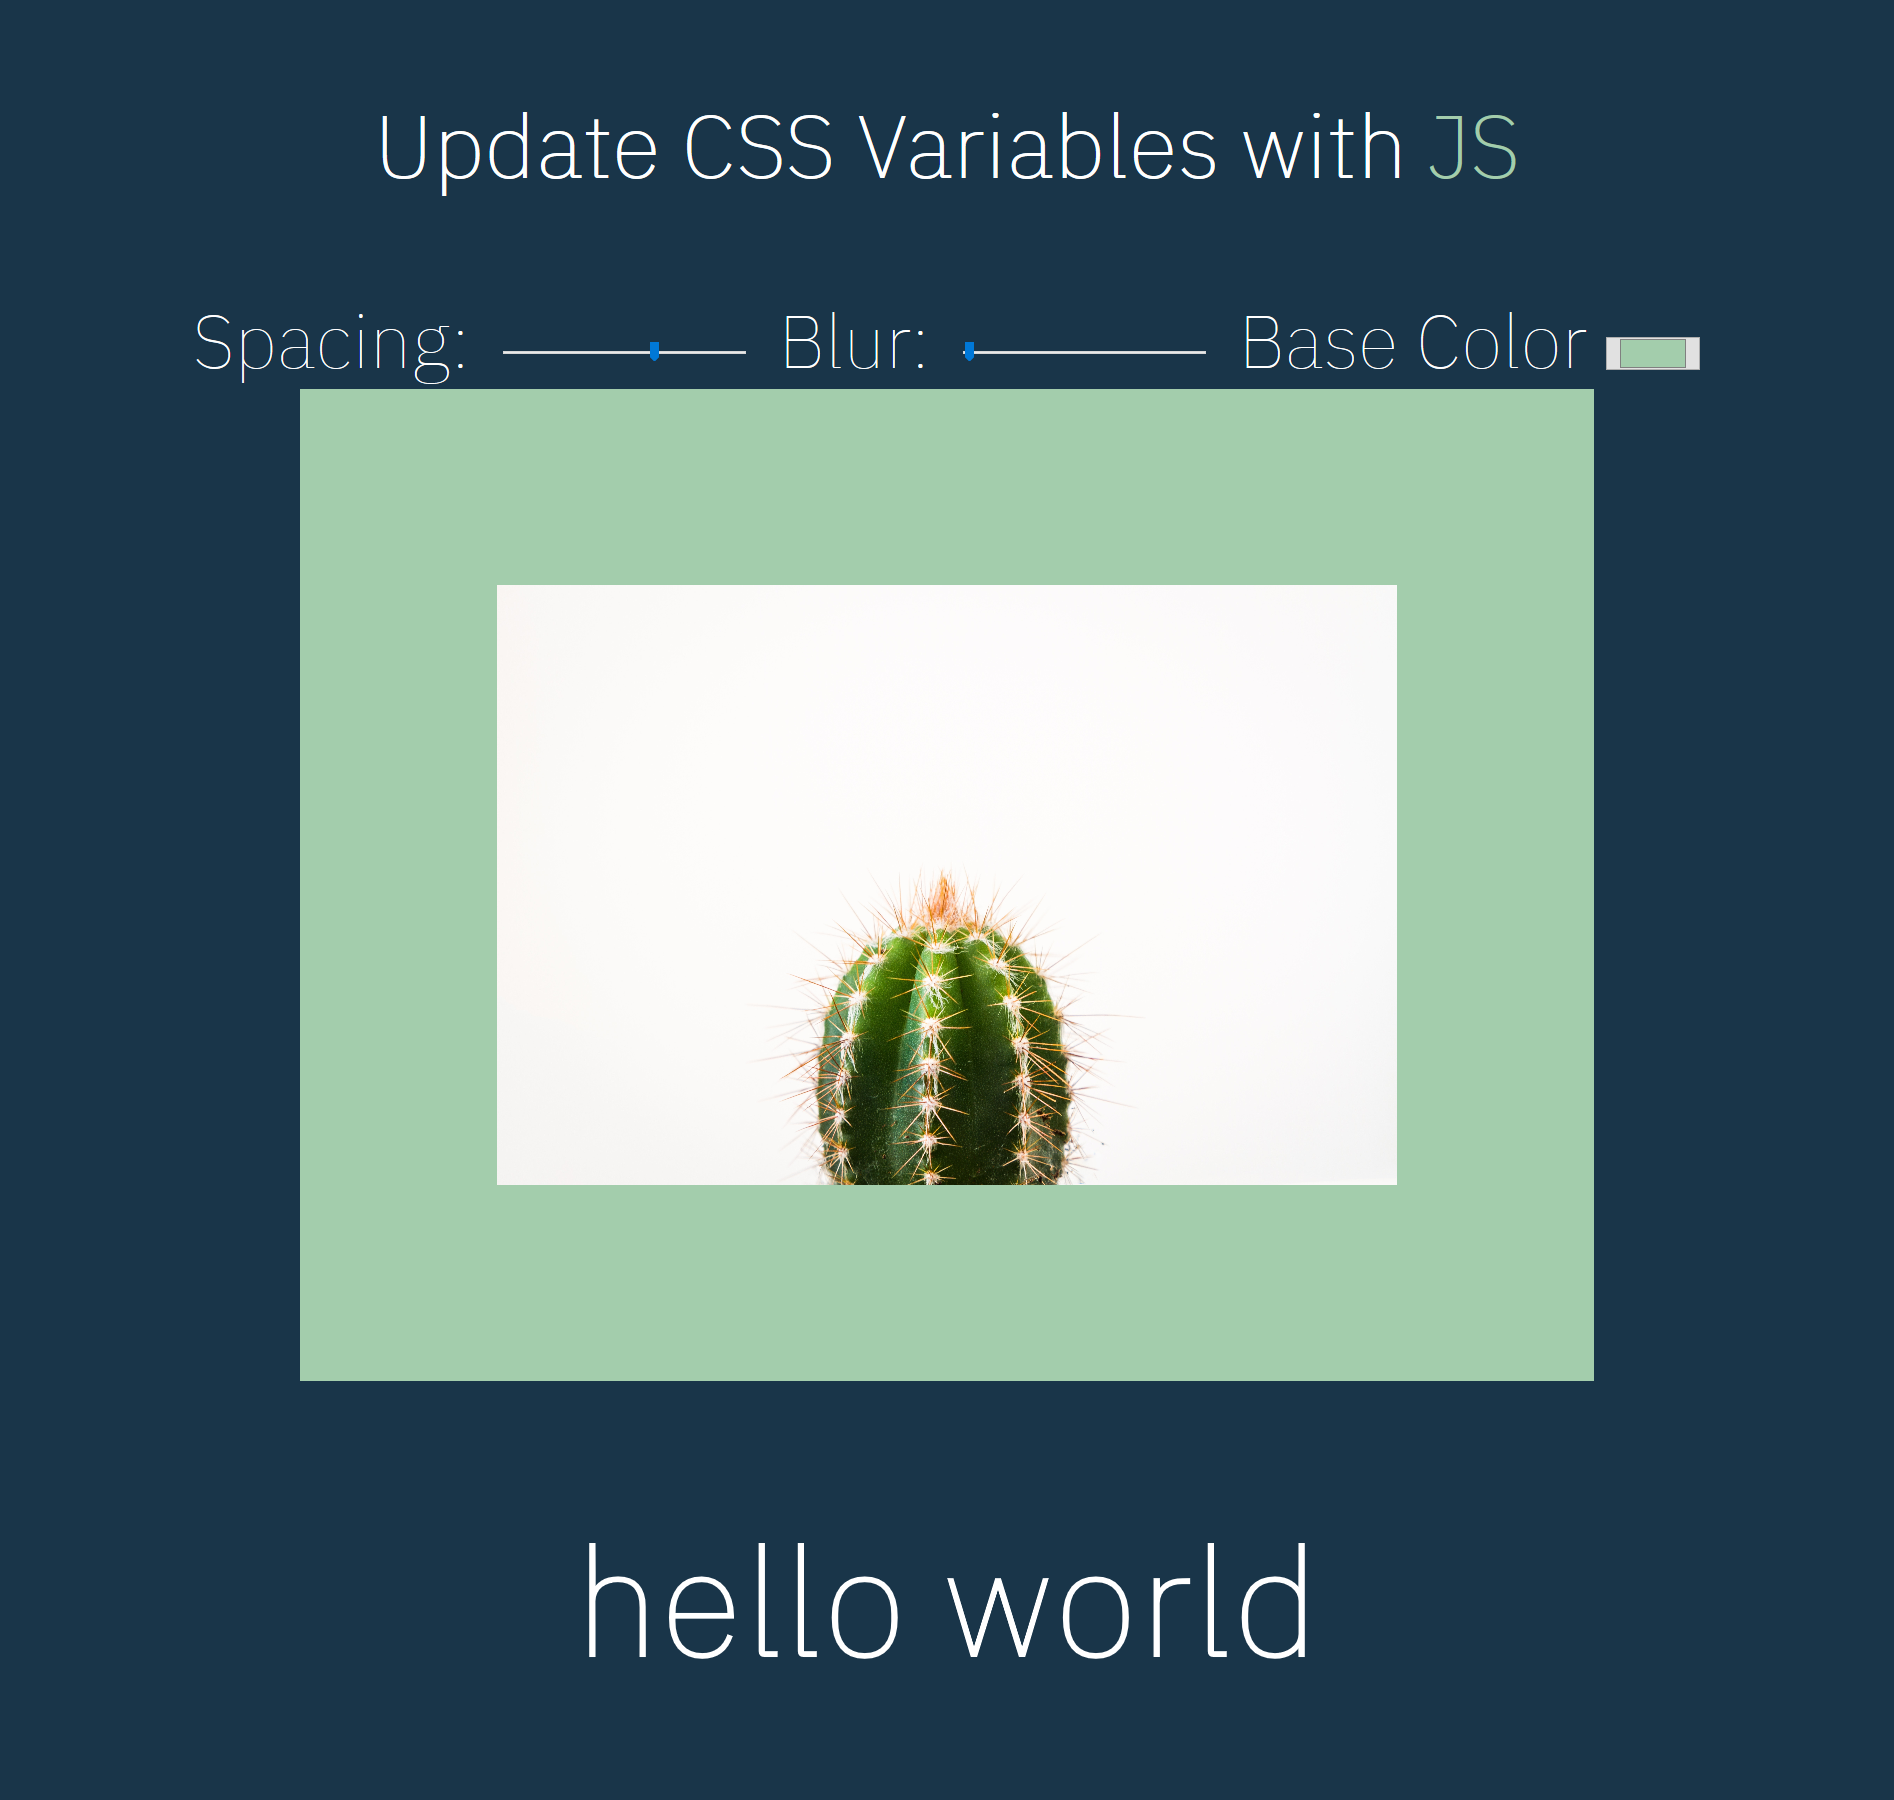
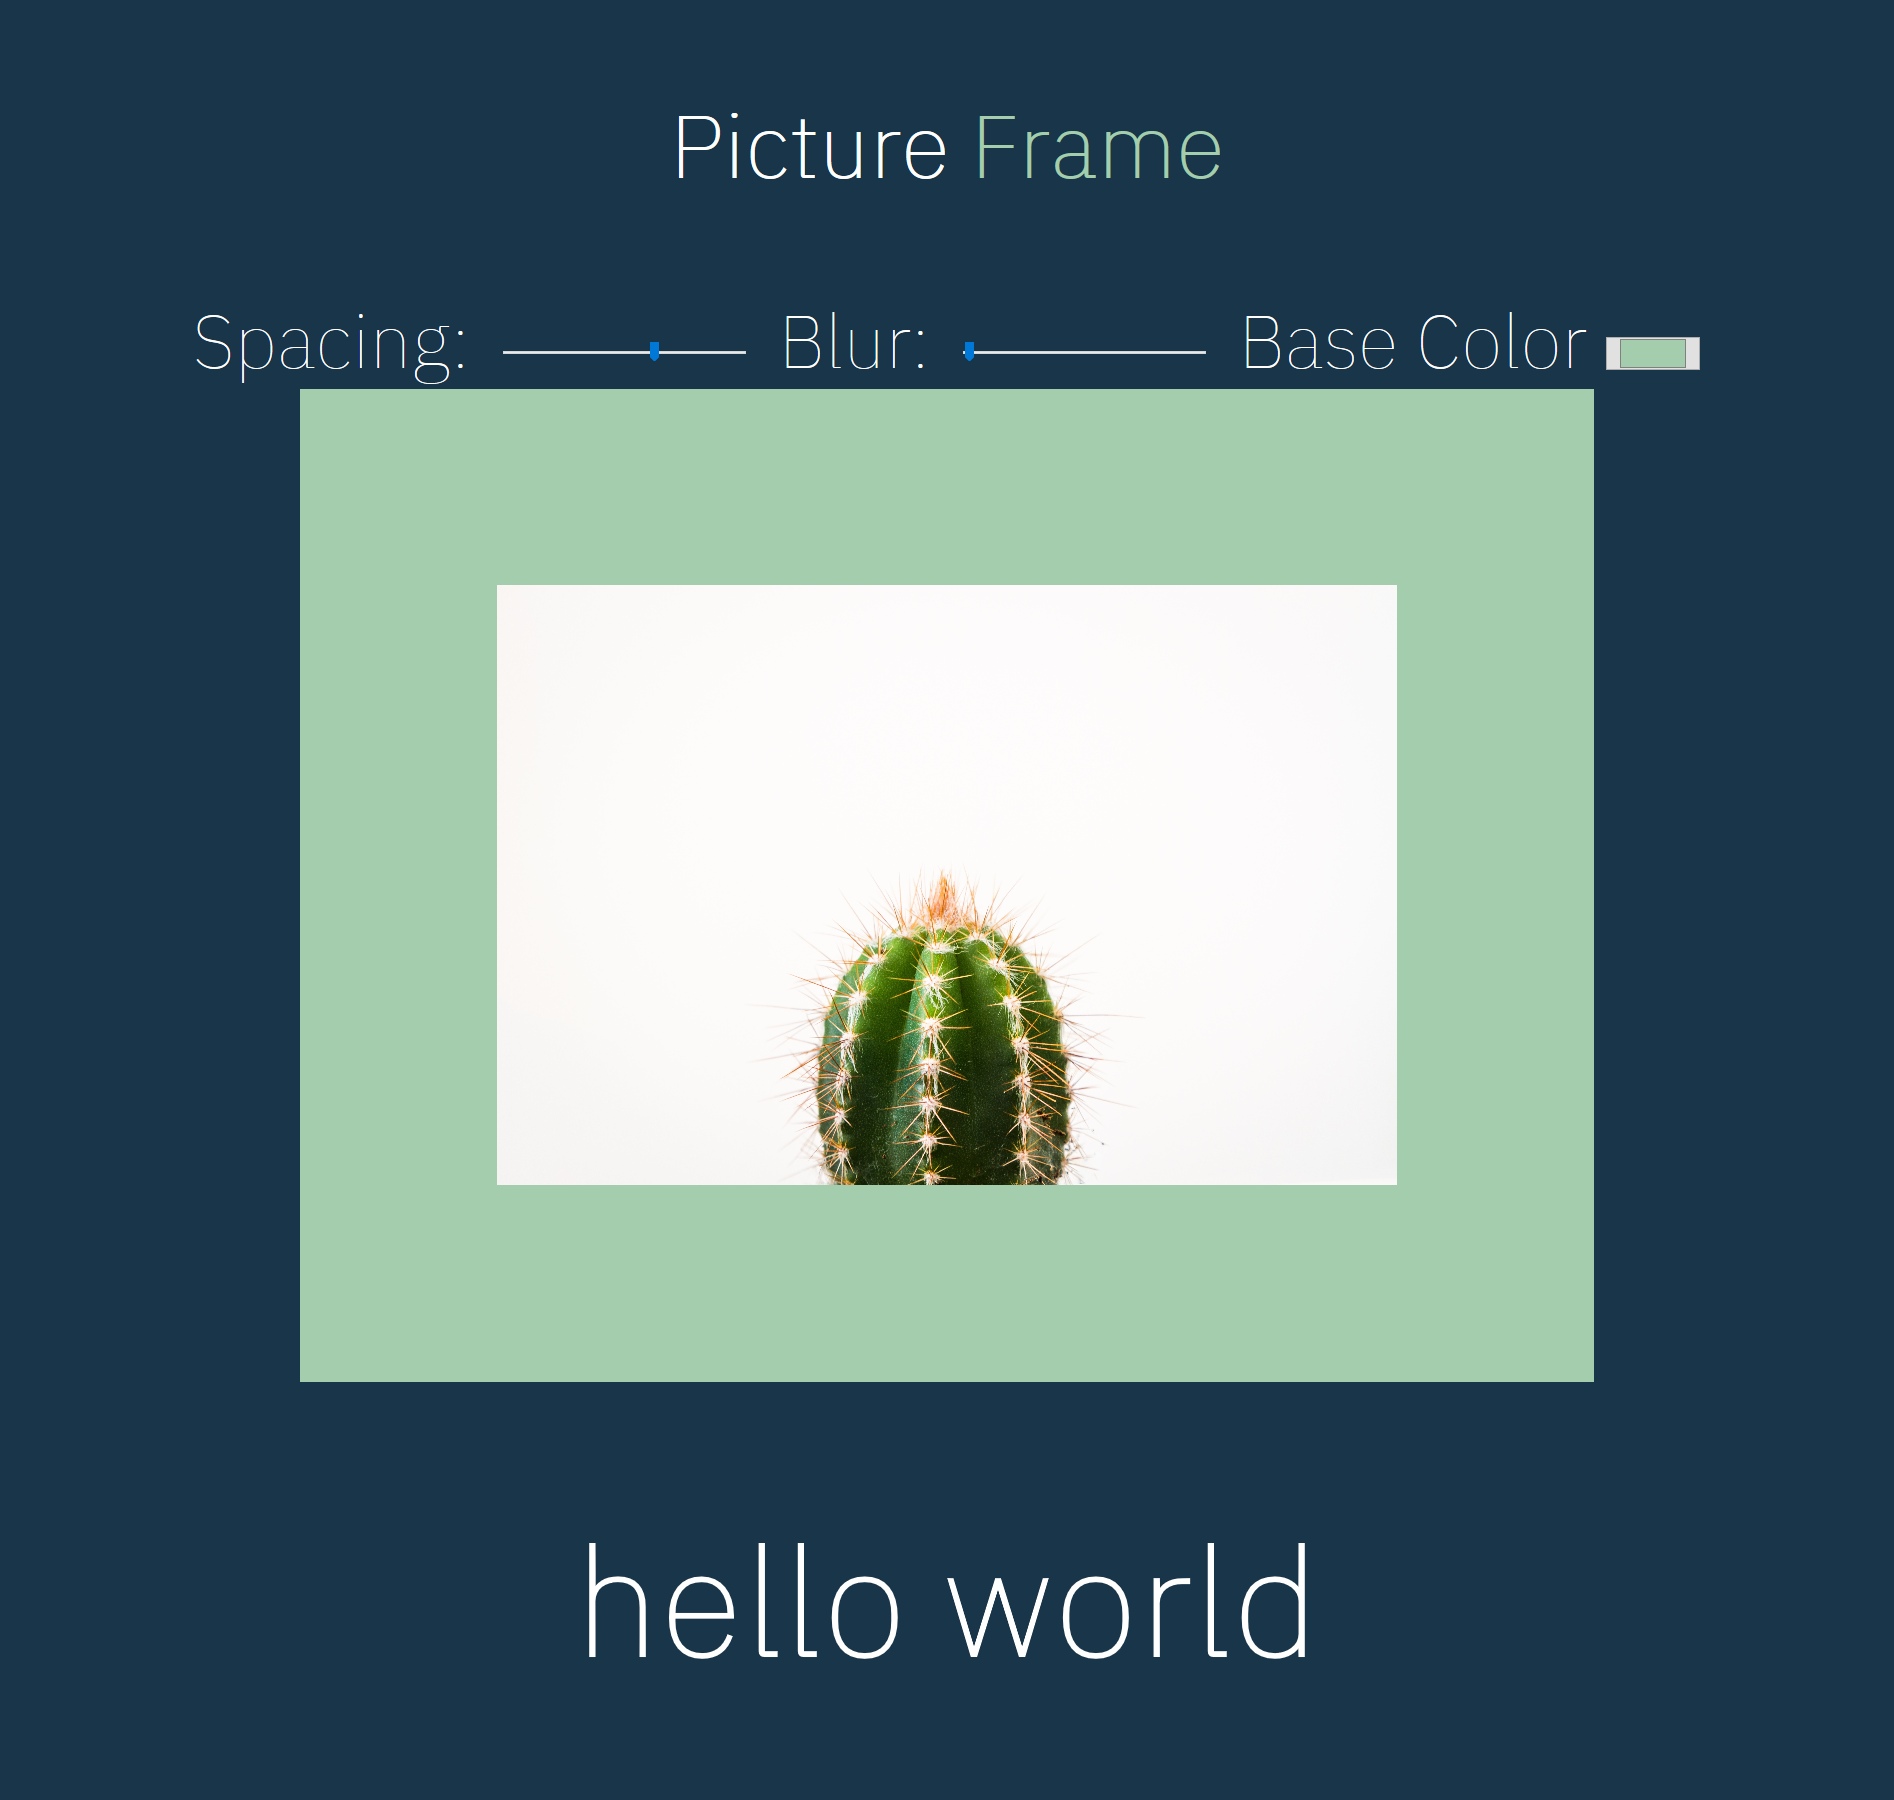
new title, new screenshot

Changed region(s): [[0.2181, 0.0622, 0.8099, 0.1244]]

diff --git a/cssVariables/index.html b/cssVariables/index.html
@@ -7,7 +7,7 @@
   <link href="https://fonts.googleapis.com/css?family=Gothic+A1|IBM+Plex+Sans:100" rel="stylesheet">
 </head>
 <body>
-  <h3>Update CSS Variables with <span class="hl">JS</span></h3>
+  <h3>Picture <span class="hl"><strong>Frame</strong></span></h3>
   <div class="controls">
     <label for="spacing">Spacing:</label>
     <input type="range" name="spacing" min="10" max="200" value="10" data-sizing="px">
